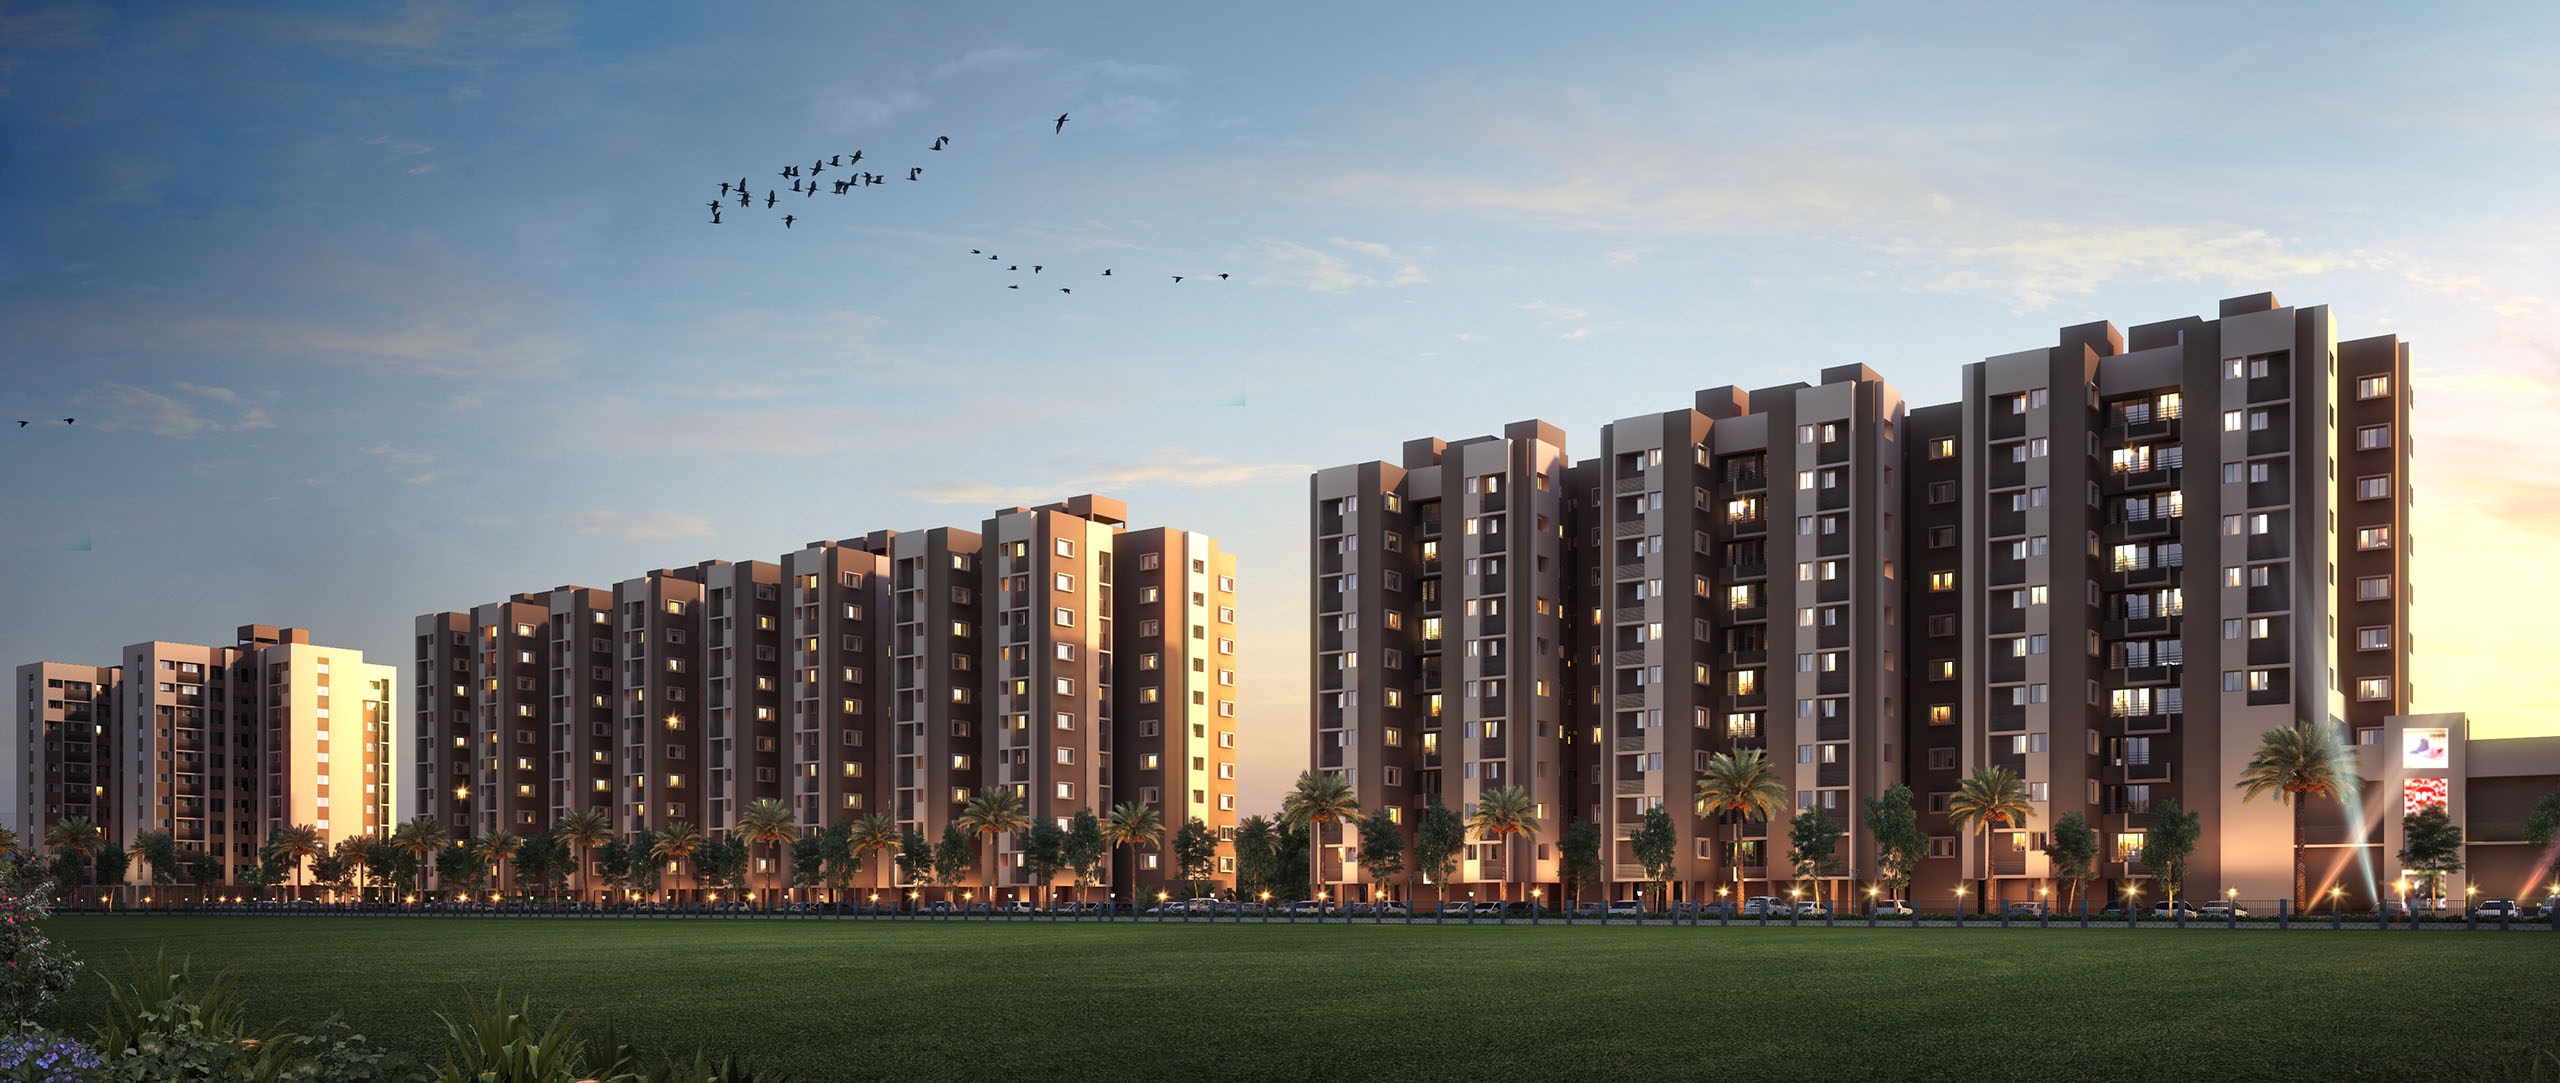
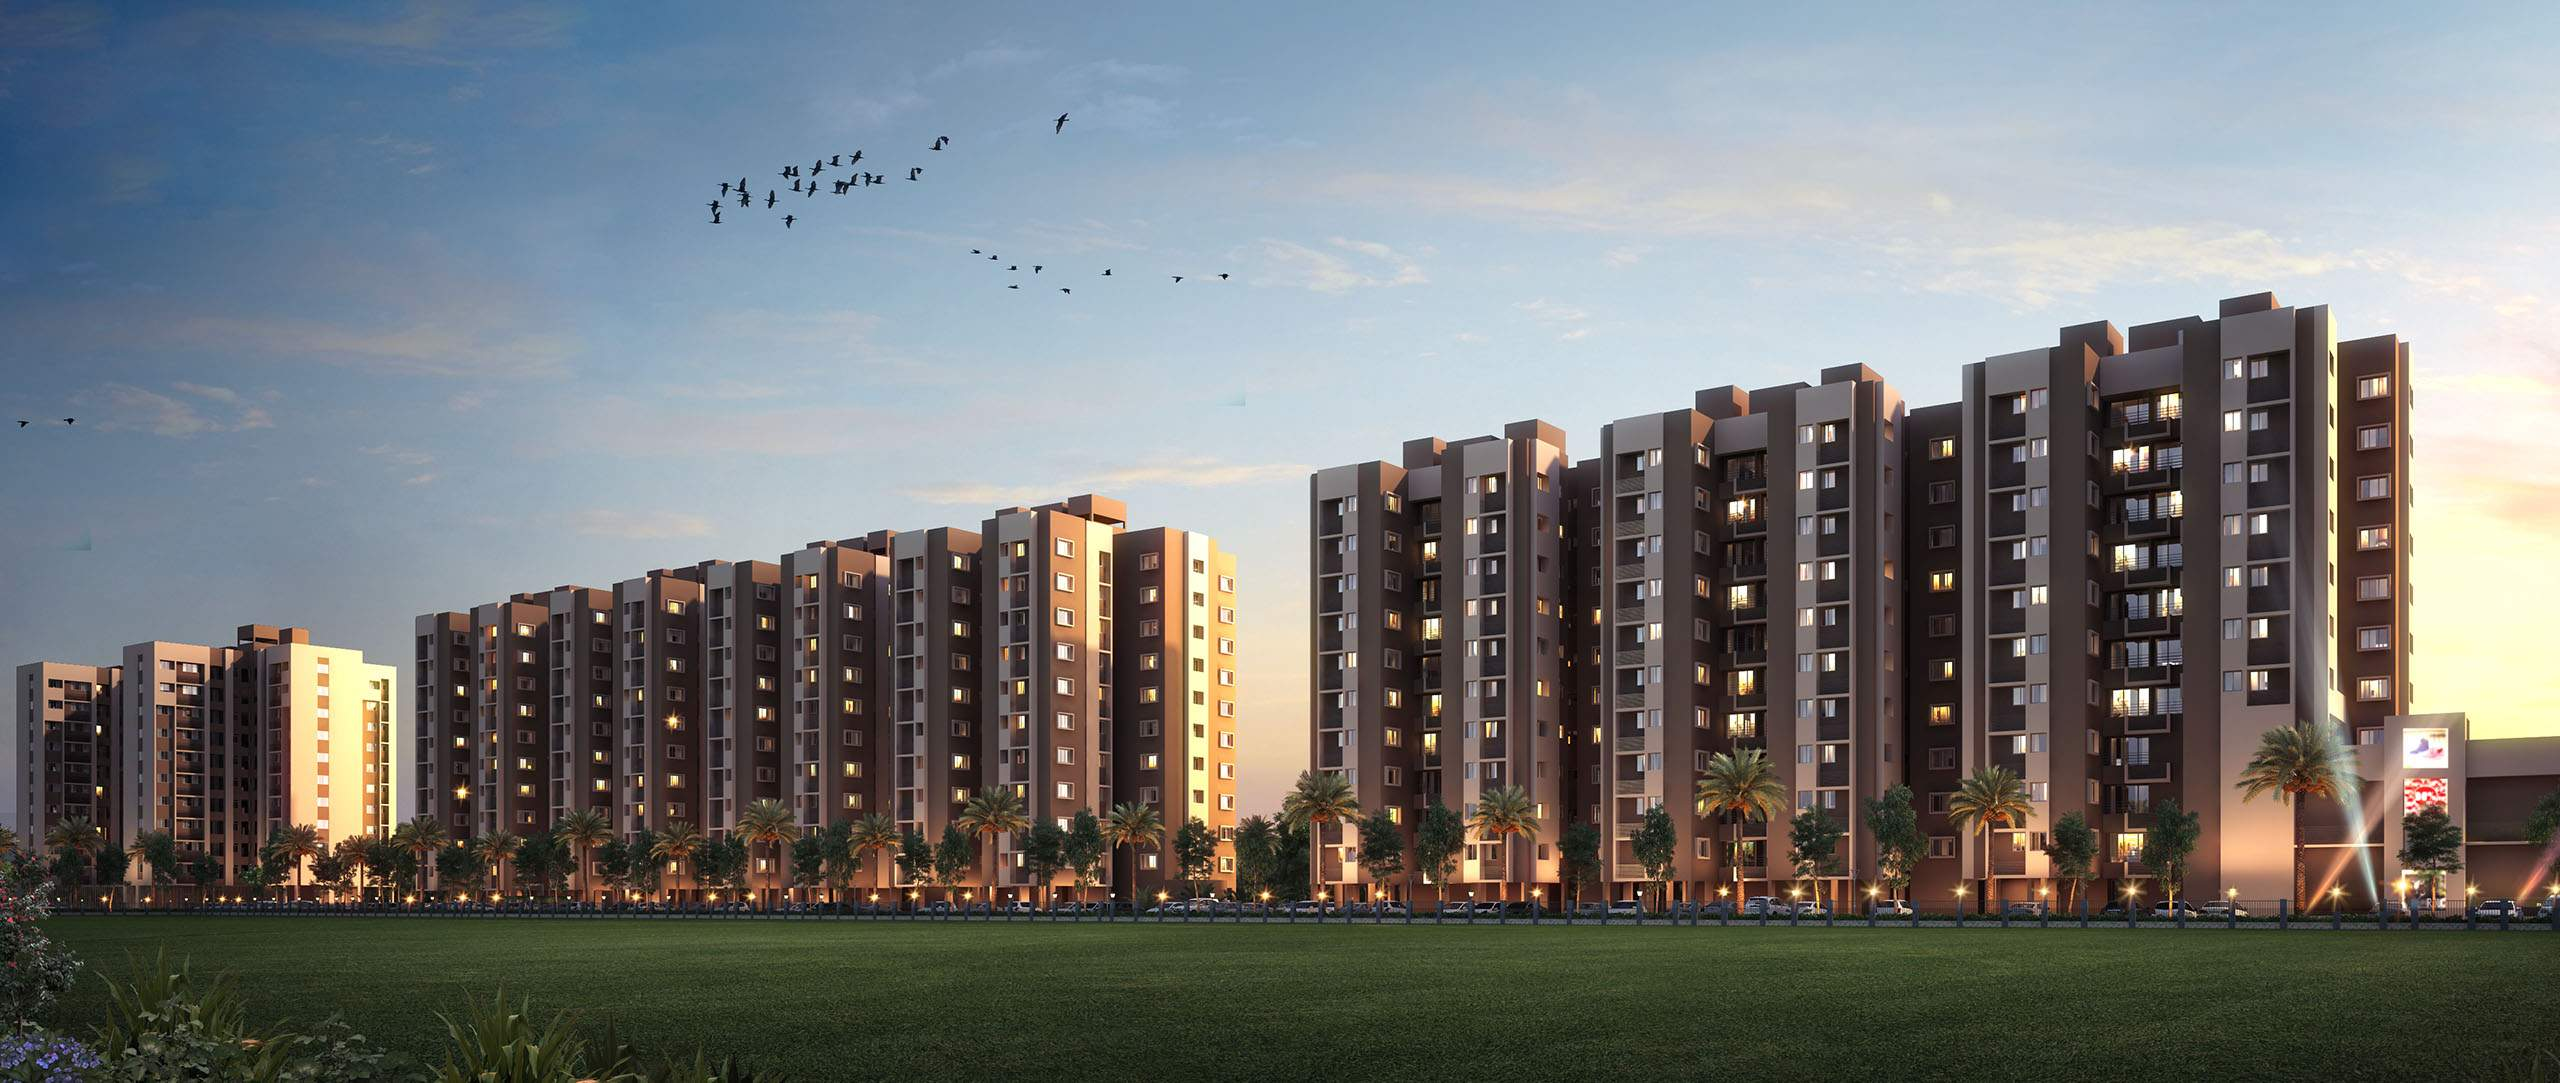
Slider image optimized

Changed region(s): [[0.0, 0.9446, 0.0312, 1.0]]

diff --git a/index.html b/index.html
@@ -94,7 +94,7 @@
     <li data-target="#myCarousel" data-slide-to="1"></li>
   </ol>
   <div class="carousel-inner" role="listbox">
-    <div class="item active"> <img src="img/slides/image1.jpg" alt="springville slider"> </div>
+    <div class="item active"> <img src="img/slides/image1.JPG" alt="springville slider"> </div>
     <div class="item"> <img src="img/slides/image3.jpg" alt="springville night elevation"> </div>
   </div>
   <a class="left carousel-control" href="#myCarousel" role="button" data-slide="prev"> <span class="glyphicon glyphicon-chevron-left" aria-hidden="true"></span> <span class="sr-only">Previous</span> </a> <a class="right carousel-control" href="#myCarousel" role="button" data-slide="next"> <span class="glyphicon glyphicon-chevron-right" aria-hidden="true"></span> <span class="sr-only">Next</span> </a> </div>
